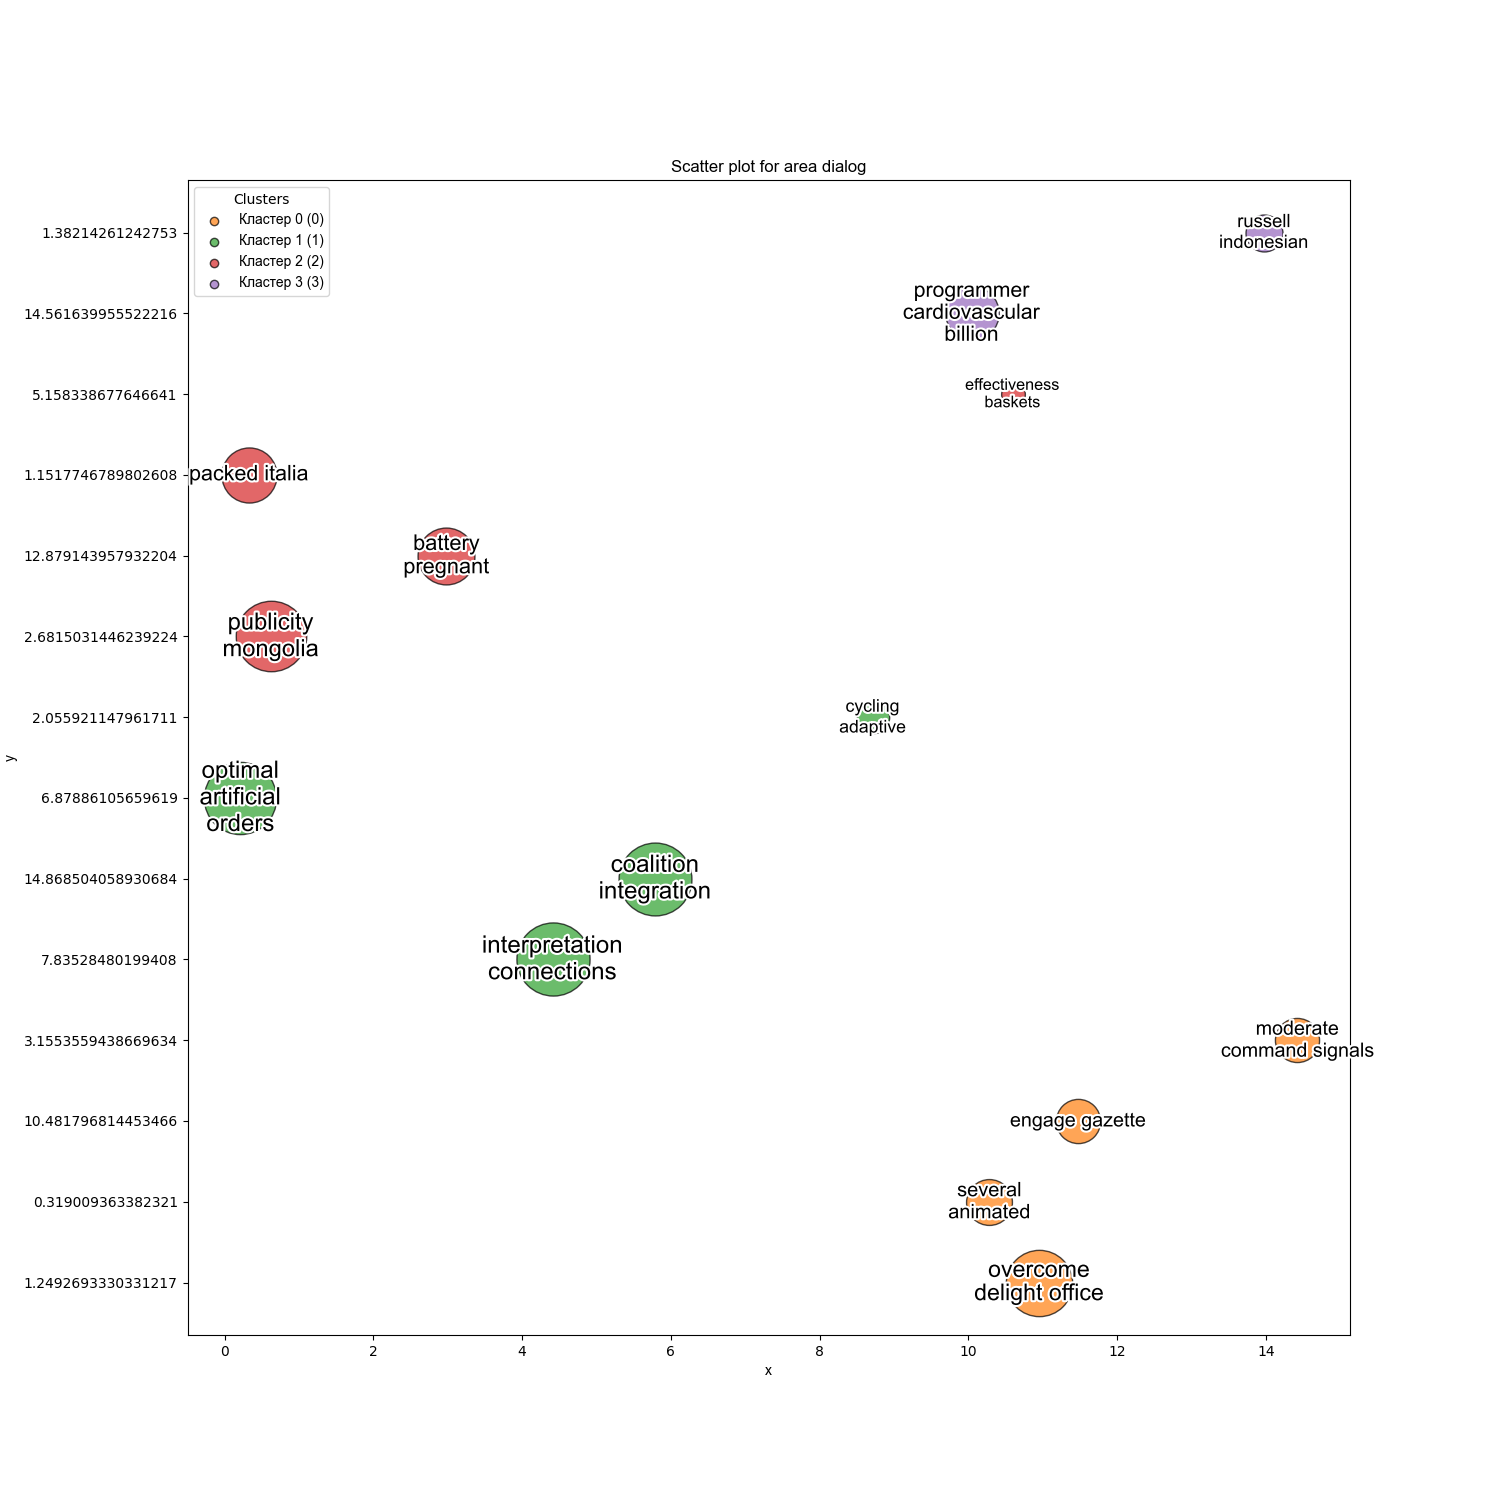
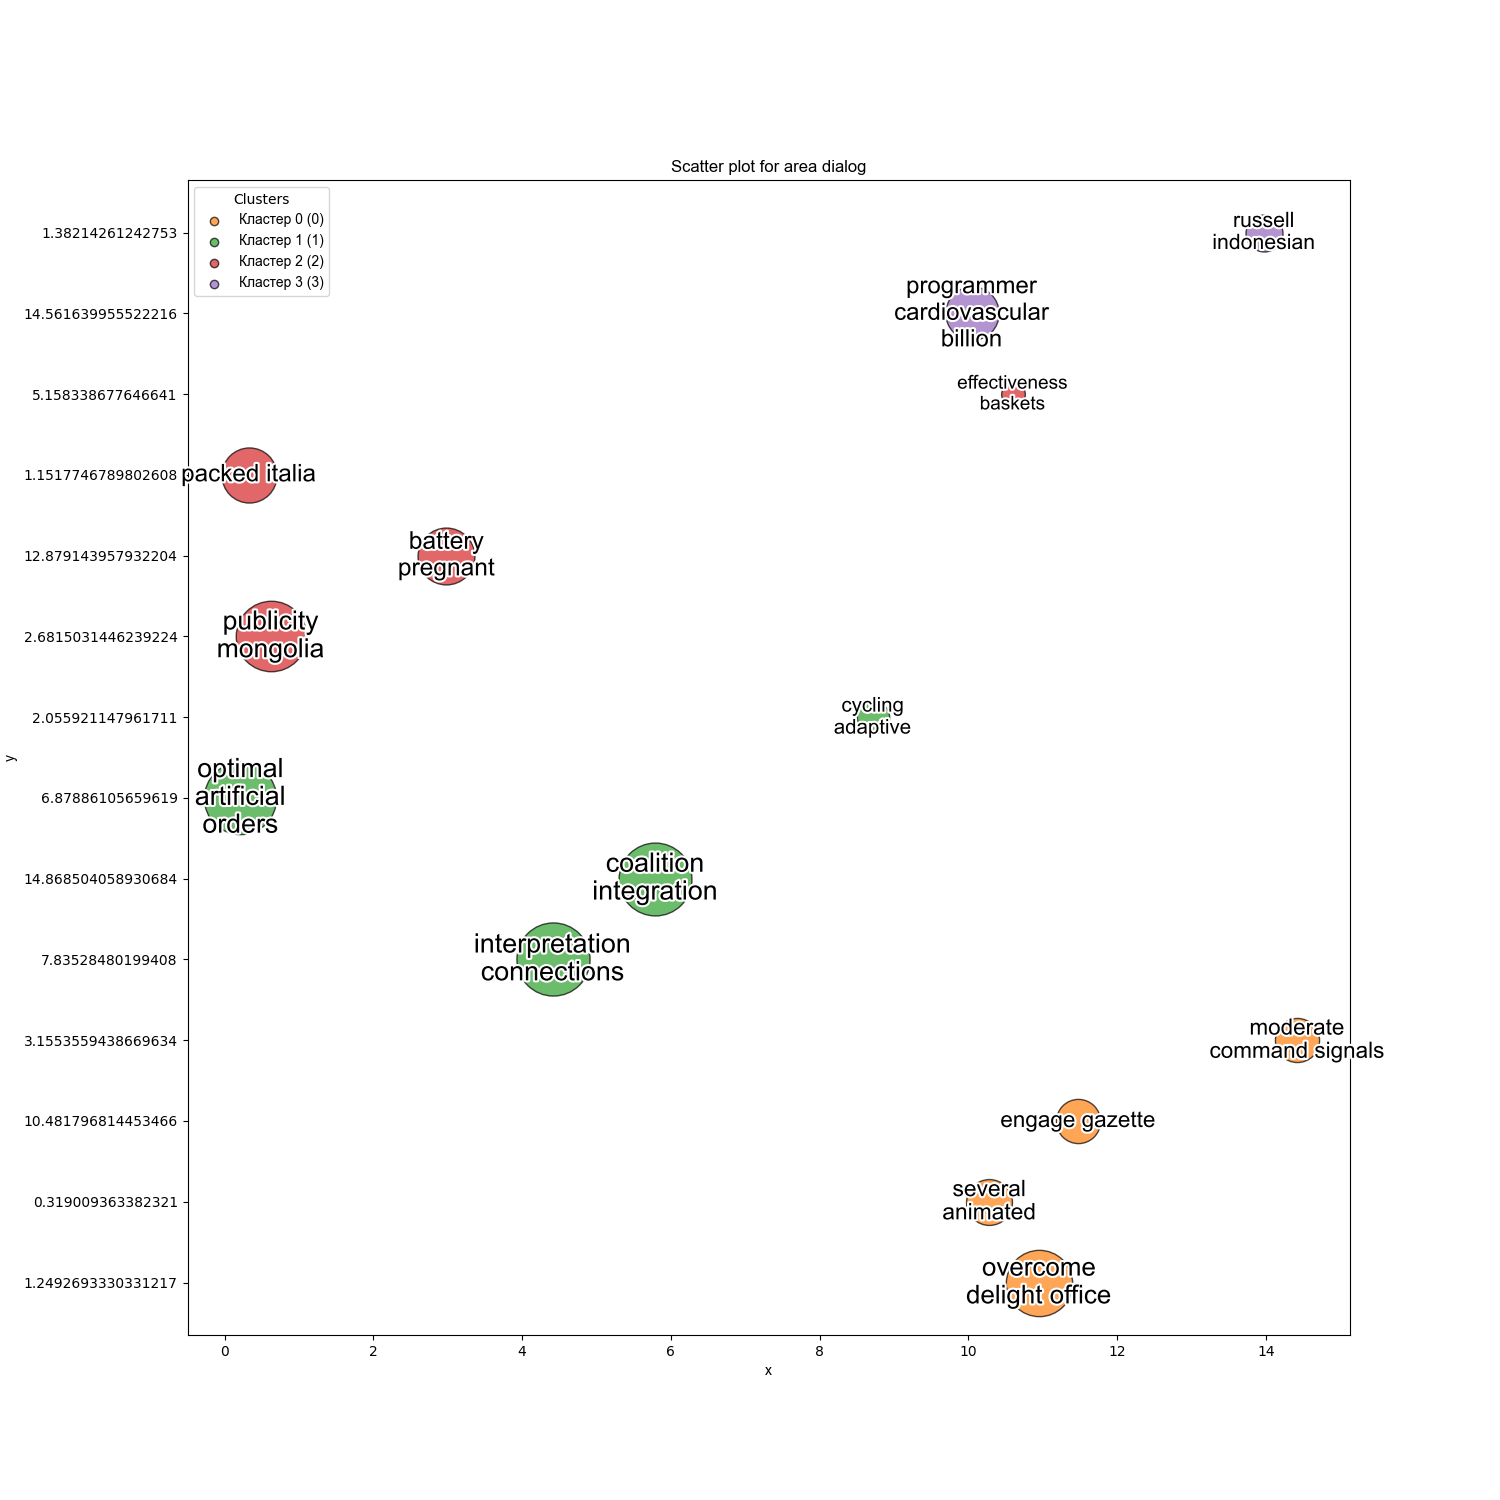
comments added

diff --git a/main.py b/main.py
@@ -8,32 +8,49 @@ from googleapiclient.discovery import build
 
 # Part 1: Data Processing
 
+# Function to load data from the Excel file
 def load_data(file_path):
     input_data = pd.read_excel(file_path)
-    input_data.dropna(how='all', inplace=True)
+    input_data.dropna(how='all', inplace=True)  # Remove rows with all NaN values
     return input_data
 
-def process_data(input_data,cluster_colors):
+# Function to process the data according to the task requirements
+def process_data(input_data, cluster_colors):
+    # Keep only the required columns
     output_data = input_data[['area', 'cluster', 'cluster_name', 'keyword', 'x', 'y', 'count']]
+    
+    # Add the color column based on the cluster_colors dictionary
     output_data['color'] = output_data['cluster'].map(cluster_colors)
+    
+    # Remove duplicates of words in the same area
     output_data = output_data.drop_duplicates(subset=['area', 'keyword'])
+    
+    # Rename the columns as specified
     output_data.columns = ['area', 'cluster', 'cluster_name', 'keyword', 'x', 'y', 'count', 'color']
+    
     return output_data
 
+# Function to check if the number of keywords in input and output data match
 def check_keywords_number(input_data, output_data):
     number_of_keyword = input_data['keyword'].nunique()
     if(number_of_keyword - output_data['keyword'].nunique() != 0):
         print('В ходе выполнения задания был нарушен пункт 5')
 
+# Function to sort the output data according to the task requirements
 def sort_output_data(output_data):
     return output_data.sort_values(['area', 'cluster', 'cluster_name', 'count'],
                                       ascending=[True, True, True, False])
 
+# Function to save the output data to a Google Spreadsheet
 def save_output_data(output_data, credentials_file, sheet_id):
     output_data = output_data.fillna('')
     output_data.to_csv('output_data.csv')
+    
+    # Authenticate with Google Sheets API using a service account
     credentials = service_account.Credentials.from_service_account_file(credentials_file)
     sheets_instance = build('sheets', 'v4', credentials=credentials)
+    
+    # Update the Google Sheet with the output data
     sheets_instance.spreadsheets().values().update(
         spreadsheetId=sheet_id, range='Sheet1', 
         body={'values': [output_data.columns.tolist()] + output_data.values.tolist()},
@@ -42,6 +59,7 @@ def save_output_data(output_data, credentials_file, sheet_id):
 
 # Part 2: Plotting
 
+# Function to split long phrases into multiple lines
 def split_long_phrases(s, max_len=15):
     if len(s) > max_len:
         split_index = s[:max_len].rfind(' ')
@@ -50,14 +68,18 @@ def split_long_phrases(s, max_len=15):
         return s[:split_index] + '\n' + split_long_phrases(s[split_index:].strip(), max_len)
     return s
 
+# Function to scale font size based on the count
 def size_scaler(x, max_count):
-    return 10 * log10(x / pow(max_count, 1/2) + 10)
+    return 10 * log10(x / pow(max_count, 1/2) + 10) + 2
 
-def create_scatter_plots(output_data,cluster_colors):
+# Function to create scatter plots for each area
+def create_scatter_plots(output_data, cluster_colors):
     areas = output_data['area'].unique()
+    
+    # Create a directory to save the scatter plot mages
     if not os.path.exists('scatter_plots'):
         os.makedirs('scatter_plots')
-
+    # Iterate through each area to create a scatter plot
     for area in areas:
         area_data = output_data[output_data['area'] == area].copy()
         area_data['count'] = pd.to_numeric(area_data['count'], errors='coerce')
@@ -65,28 +87,35 @@ def create_scatter_plots(output_data,cluster_colors):
         max_count = area_data['count'].max()
 
         fig, ax = plt.subplots(figsize=(15, 15))
+        
+        # Plot each point and add text labels
         for index, row in area_data.iterrows():
             ax.scatter(row['x'], row['y'], s=1.4 * row['count'], c=row['color'], edgecolors='k', alpha=0.7)
             text = ax.text(row['x'], row['y'], split_long_phrases(row['keyword']), 
-                           fontsize=size_scaler(row['count'], max_count), ha='center', va='center', fontname='Arial')
+                        fontsize=size_scaler(row['count'], max_count), ha='center', va='center', fontname='Arial')
             text.set_path_effects([PathEffects.withStroke(linewidth=3,foreground='w')])
+        
+        # Set plot title and axis labels
         ax.set_title(f'Scatter plot for area {area}', fontname='Arial')
         ax.set_xlabel('x', fontname='Arial')
         ax.set_ylabel('y', fontname='Arial')
         
+        # Add legend for clusters
         for cluster, color in cluster_colors.items():
             cluster_name = area_data[area_data['cluster'] == cluster]['cluster_name'].iloc[0]
             ax.scatter([], [], c=color, label=f'{cluster_name} ({cluster})', edgecolors='k', alpha=0.7)
         ax.legend(title='Clusters', prop={'family': 'Arial'})
 
+        # Save the scatter plot image as a PNG file
         plt.savefig(f'scatter_plots/scatter_plot_area_{area}.png', dpi=100)
         plt.close(fig)
 
+#Main function to execute the data processing and plotting tasks
 def main():
     input_file_path = 'Тестовое задание.xlsx'
     credentials_file = 'your_credentials.json'
     sheet_id = '1mHADS6i7cD5ZEHIBeSXZo9B26fIJlJ3VBDVH1ffuaM4'
-
+    # Define a dictionary to map cluster numbers to colors
     cluster_colors = {
         0: '#ff7f0e',
         1: '#2ca02c',
@@ -94,11 +123,15 @@ def main():
         3: '#9467bd',
     }
 
+    # Load, process, and save the data
     input_data = load_data(input_file_path)
-    output_data = process_data(input_data,cluster_colors)
+    output_data = process_data(input_data, cluster_colors)
     check_keywords_number(input_data, output_data)
     output_data = sort_output_data(output_data)
     save_output_data(output_data, credentials_file, sheet_id)
-    create_scatter_plots(output_data,cluster_colors)
 
+    # Create scatter plots
+    create_scatter_plots(output_data, cluster_colors)
+
+#Call the main function to start the execution
 main()
